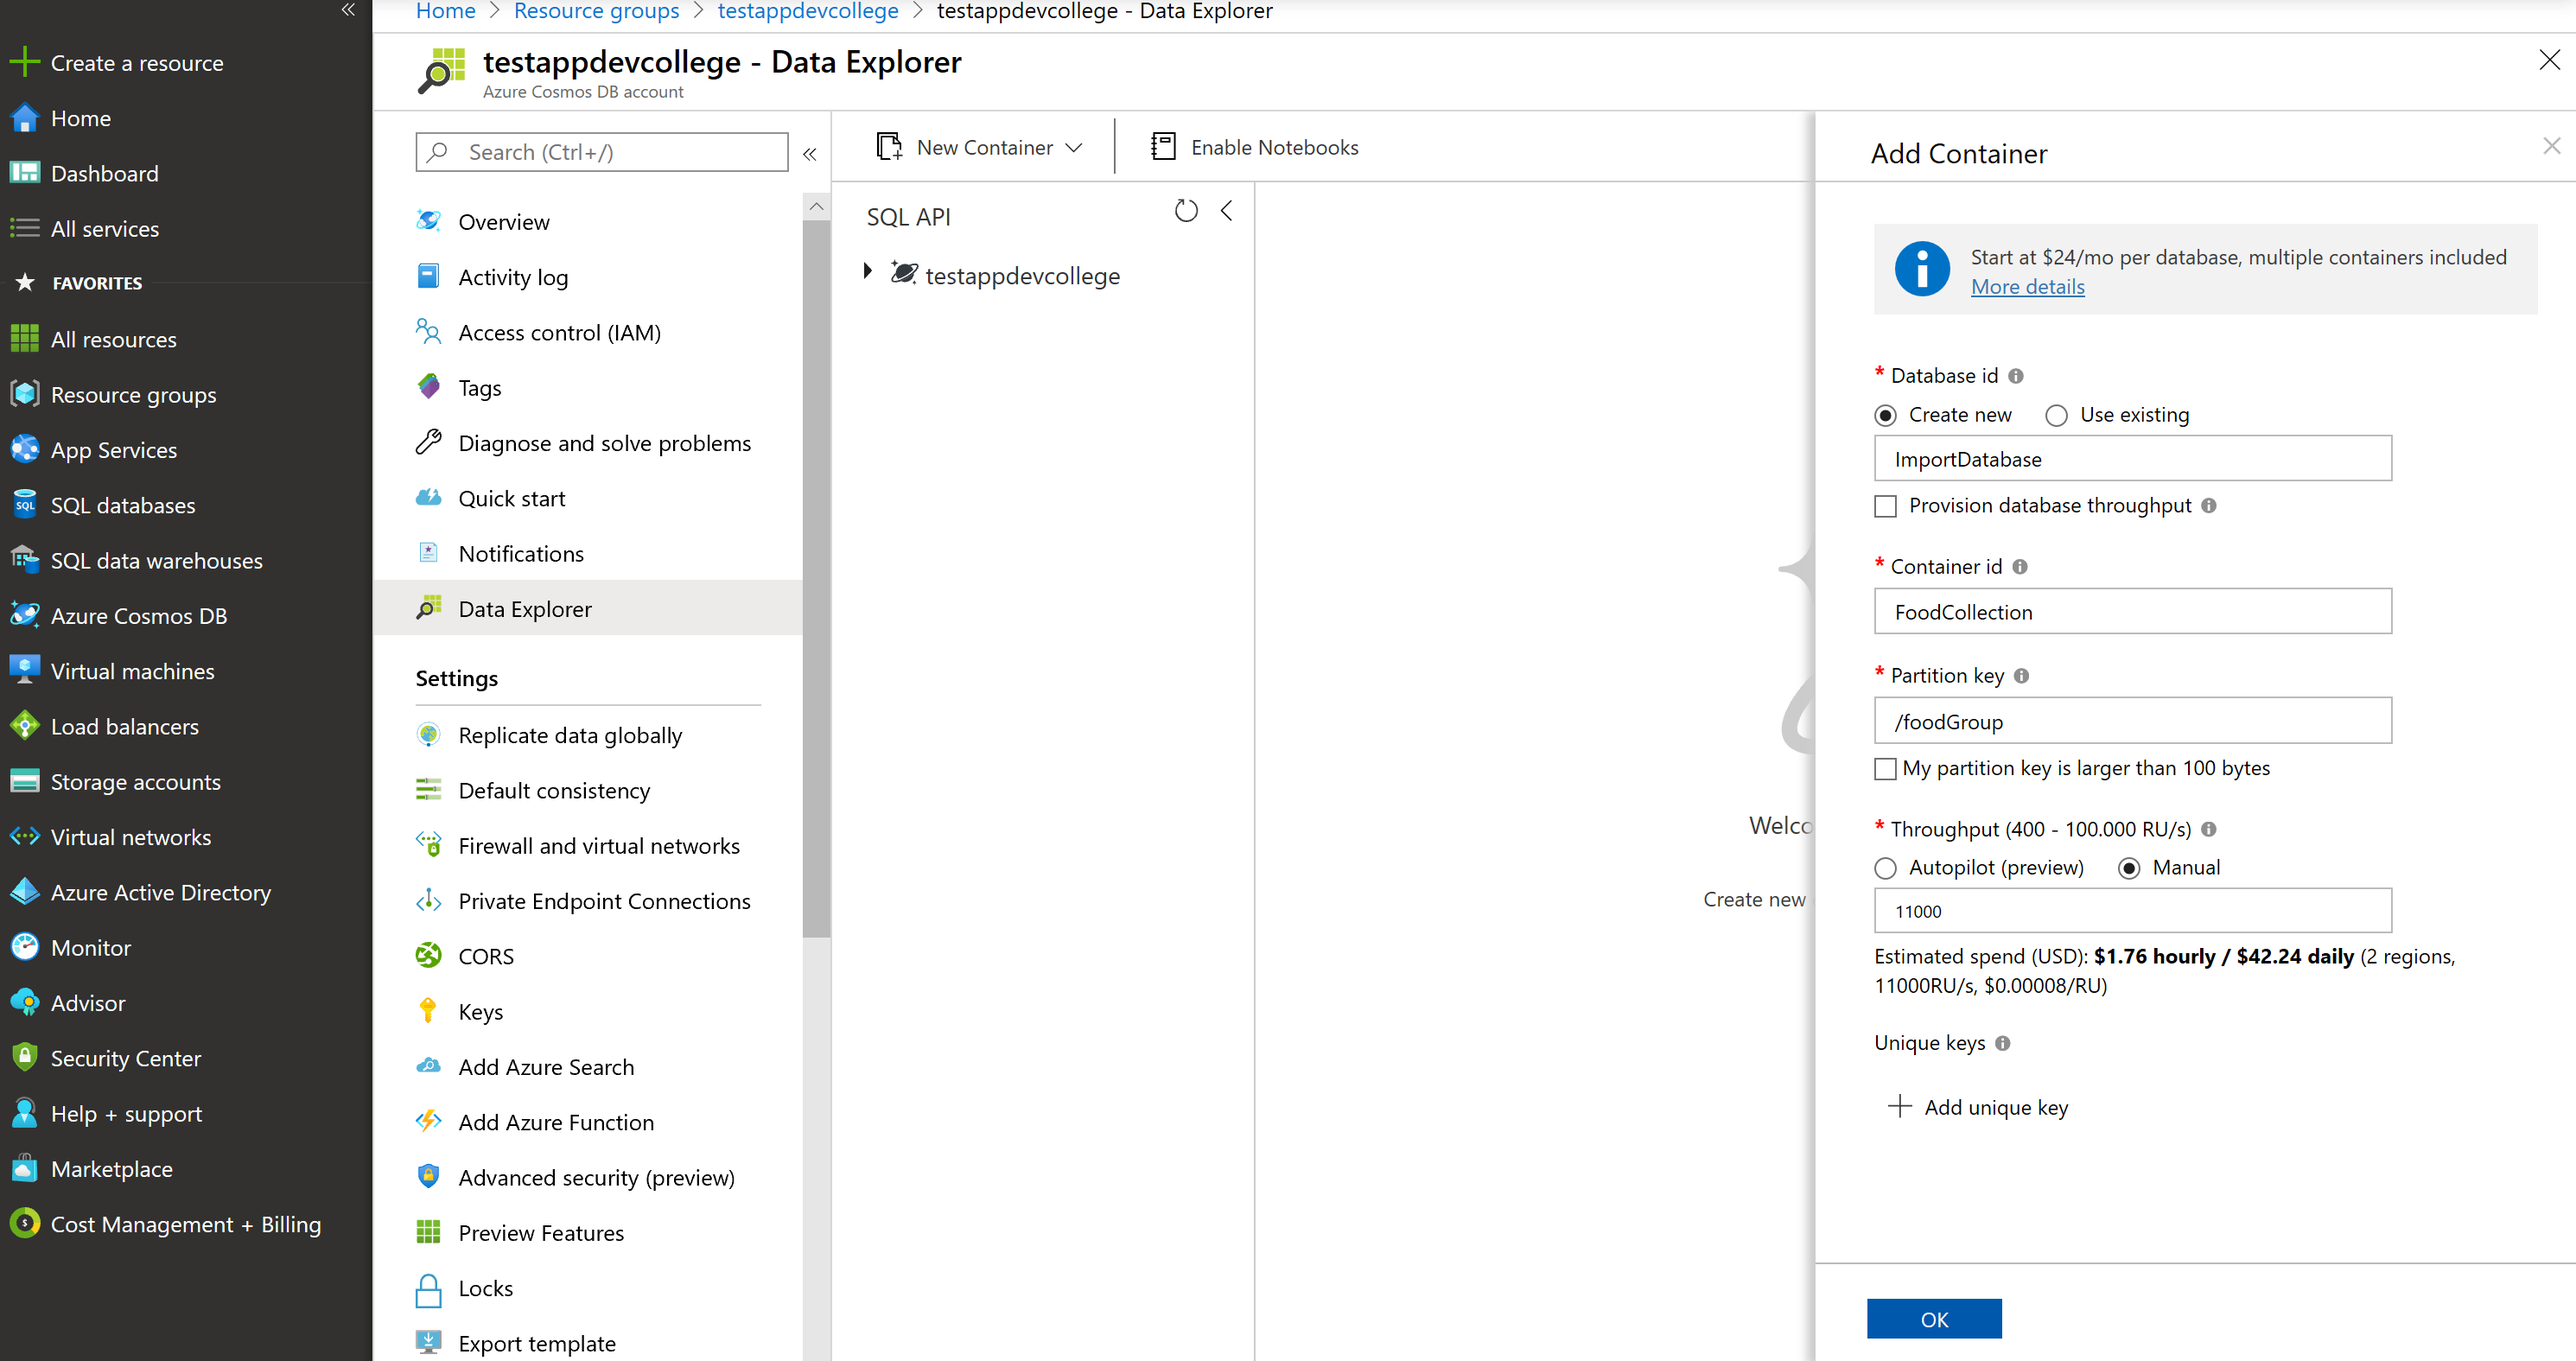
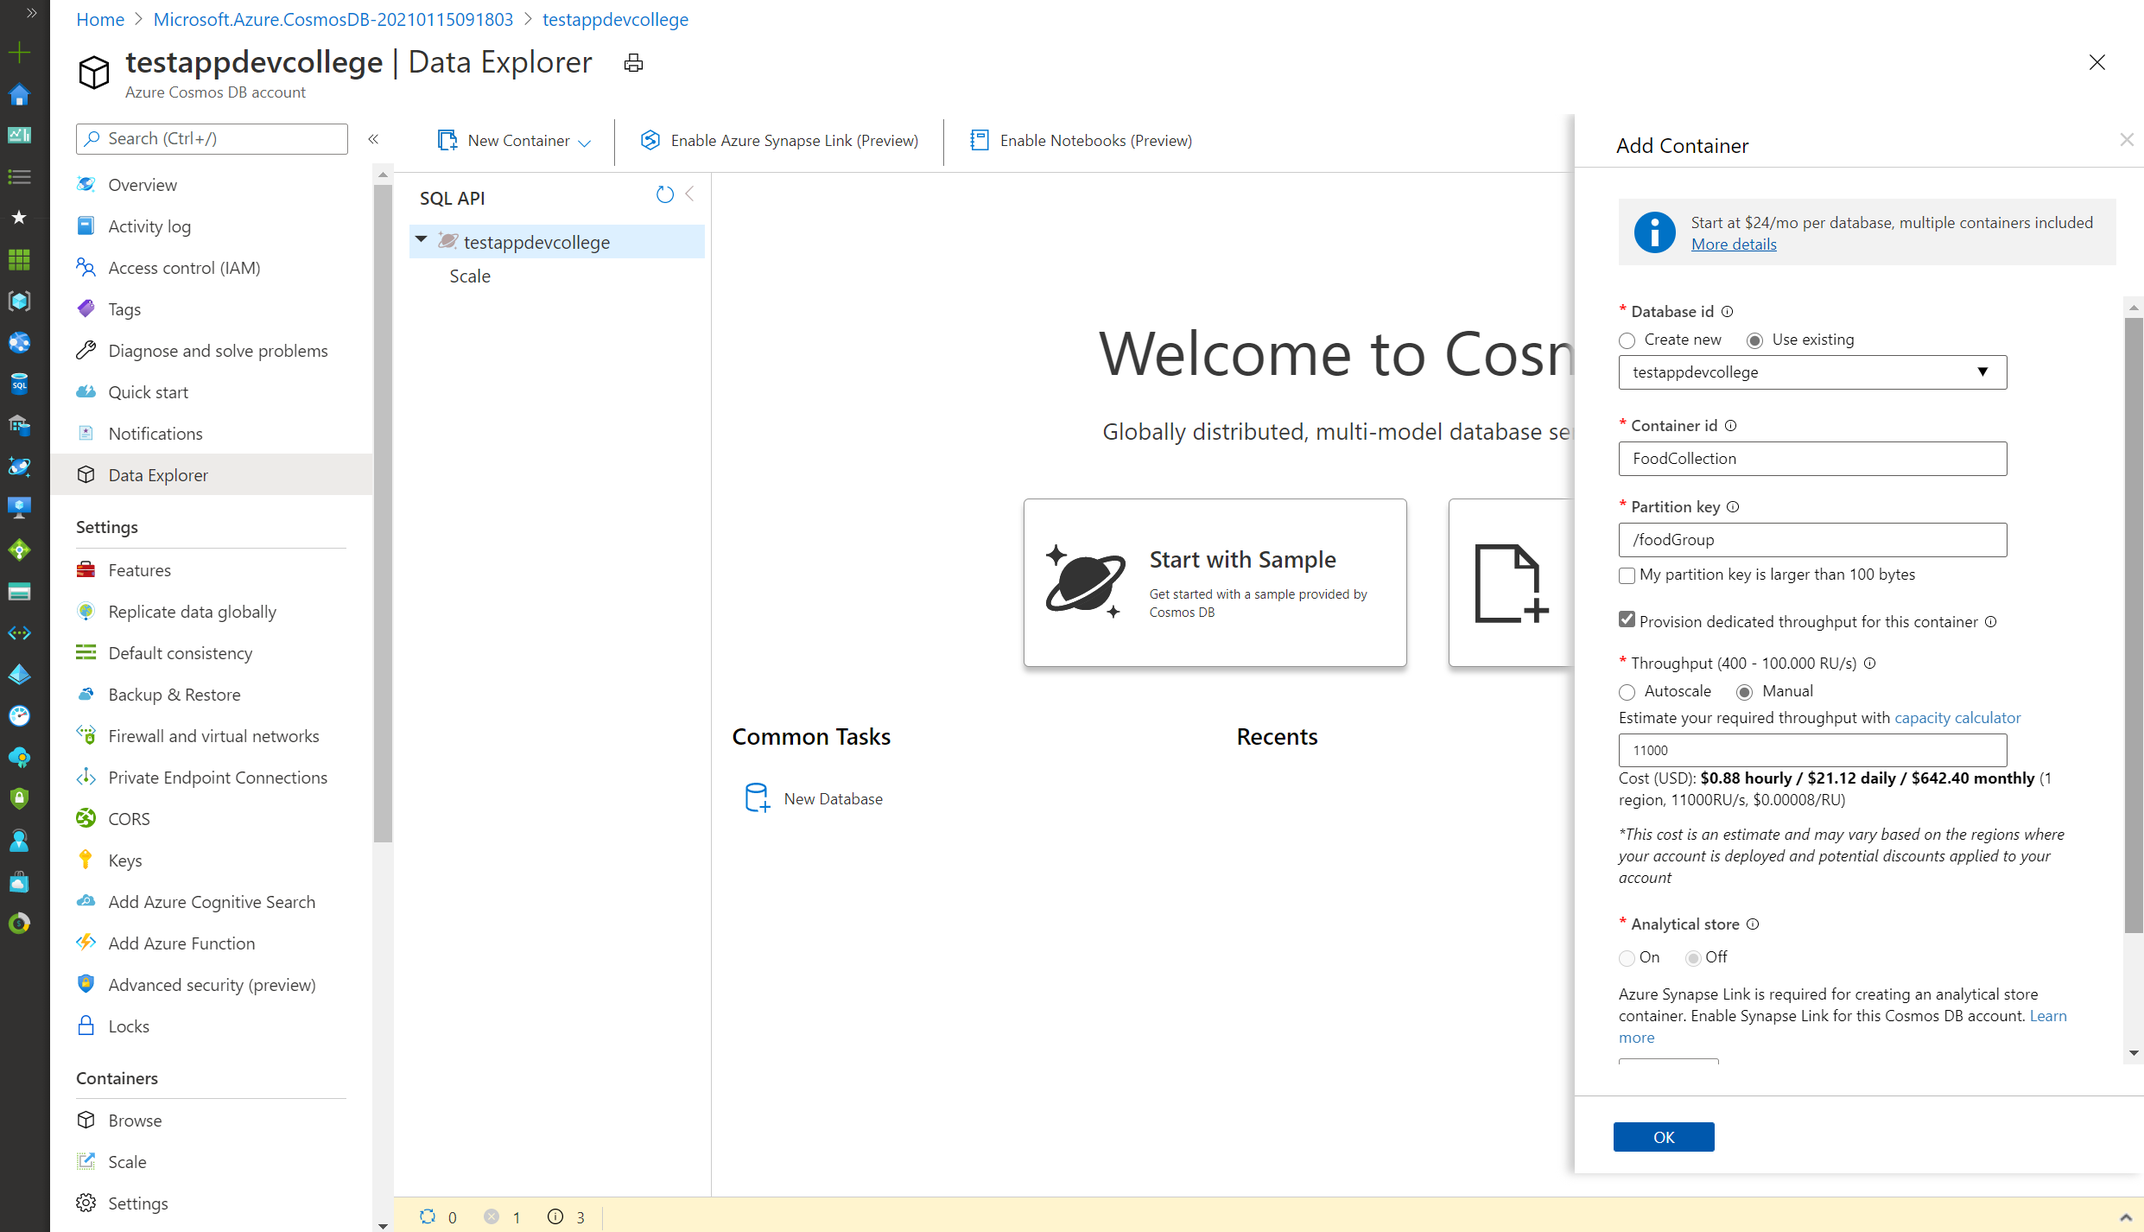
minor updates in cosmos db part - data factory

diff --git a/day3/challenges/challenge-1.md b/day3/challenges/challenge-1.md
@@ -269,7 +269,7 @@ First and foremost, we will be creating an new database plus a new container. Go
 
 1. In the **Partition key** field, enter the value ```/foodGroup```.
 
-1. In the **Throughput** field, enter the value ```11000```.
+1. After ticking the box **Provision dedicated throughput for this container** enter the value ```11000``` in the **Throughput** field.
 
 1. Click the **OK** button.
 ![Cosmos DB: Food Collection](./img/CosmosFoodCollection.png)
@@ -438,24 +438,29 @@ This query will return the id, description, servings, tags, foodGroup, manufactu
 Your first result document should be:
 
 ```json
-{
-  "id": "14026",
-  "description": "Beverages, Energy Drink, sugar-free with guarana",
-  "tags": [
-    {
-      "name": "beverages"
+ {
+        "id": "14461",
+        "description": "Beverages, COCA-COLA, POWERADE, lemon-lime flavored, ready-to-drink",
+        "tags": [
+            {
+                "name": "beverages"
+            },
+            {
+                "name": "coca-cola"
+            },
+            {
+                "name": "powerade"
+            },
+            {
+                "name": "lemon-lime flavored"
+            },
+            {
+                "name": "ready-to-drink"
+            }
+        ],
+        "foodGroup": "Beverages",
+        "version": 1
     },
-    {
-      "name": "energy drink"
-    },
-    {
-      "name": "sugar-free with guarana"
-    }
-  ],
-  "foodGroup": "Beverages",
-  "manufacturerName": "The Coca-Cola Company",
-  "version": 1
-}
 ```
 
 You should note that where the query returned the results of tags node it projected the entire contents of the property which in this case is an array.
